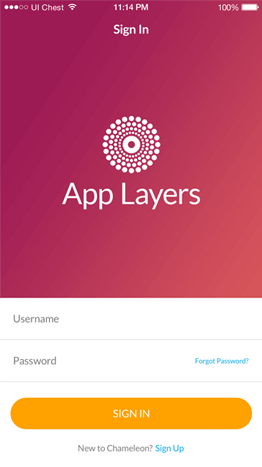
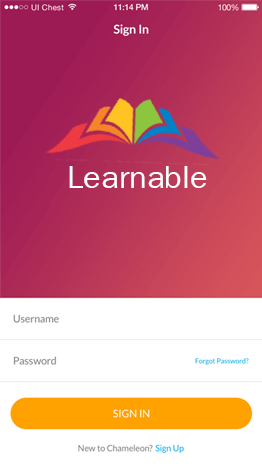
1
1

Changed region(s): [[0.1832, 0.2099, 0.8244, 0.4497]]

diff --git a/index.html b/index.html
@@ -6,7 +6,7 @@
     <meta name="viewport" content="width=device-width, initial-scale=1.0">
     <meta name="description" content="">
     <meta name="author" content="">
-    <title>App Layers</title>
+    <title>Learnable</title>
     
 	<!-- Bootstrap CSS -->
 	<link href="css/bootstrap.min.css" rel="stylesheet">
@@ -112,9 +112,9 @@
 			<div class="col-md-12">
 			
 			<div class="section_heading">
-				<h2> Welcome to App Layers </h2>
-				
-				<h4> Lorem Ipsum is simply dummy text of the printing and typesetting industry. Lorem Ipsum is simply dummy text  </h4>
+				<h2> Welcome to Learnable </h2>
+			
+				<h4> Connecting learners and teachers </h4>
 			</div>		
 				
 				<div class="col-md-4">
@@ -130,52 +130,52 @@
 						<li>
 								
 								<h6> <i class="fa fa-star-o" aria-hidden="true"></i> Easy to Use </h6>
-								It is a long established fact that a reader will be distracted by the readable content of a page when looking at its layout. The point of using
+								Designated for ease of use, both the Learnable App and Website is made simple and easy for you to navigate your preferred categories, whether learning or teaching.
 						</li>
 						
 						<li>
 								
-								<h6> <i class="fa fa-heart-o" aria-hidden="true"></i>  User Findley </h6>
-								It is a long established fact that a reader will be distracted by the readable content of a page when looking at its layout. The point of using
+								<h6> <i class="fa fa-heart-o" aria-hidden="true"></i>  Interactions beforehand </h6>
+								If you are still unsure, our messaging system connects you with the tutor to make sure everything will be hassle-free.
 						</li>
 						
 						<li>
 								
-								<h6> <i class="fa fa-laptop" aria-hidden="true"></i>  Slick Design </h6>
-								It is a long established fact that a reader will be distracted by the readable content of a page when looking at its layout. The point of using
+								<h6> <i class="fa fa-laptop" aria-hidden="true"></i>  Trust & Safety </h6>
+								We handle the money so you don't have to. Tutors and tutees are paid and pay through Learnable.
 						</li>
 						
 						<li>
 								
 								<h6> <i class="fa fa-thumbs-o-up" aria-hidden="true"></i>  Excellent Support  </h6>
-								It is a long established fact that a reader will be distracted by the readable content of a page when looking at its layout. The point of using
+								Questions? We have a community of tutors and tutees just for you, and if that's not enough, our Learnable support team will be here to answer it.
 						</li>
 						
 						<li>
 								
-								<h6> <i class="fa fa-lightbulb-o" aria-hidden="true"></i>  Pixel Perfect  </h6>
-								It is a long established fact that a reader will be distracted by the readable content of a page when looking at its layout. The point of using
+								<h6> <i class="fa fa-lightbulb-o" aria-hidden="true"></i>  Earn money as a Learnable tutor  </h6>
+								Expert in a module? Own a tuition centre? Through Learnable you have outreach of tutors who are willing to Learn!
 						</li>
 						
 						<li>
-								 
-								<h6> <i class="fa fa-cogs" aria-hidden="true"></i> Easy to Customize </h6>
-								It is a long established fact that a reader will be distracted by the readable content of a page when looking at its layout. The point of using
+
+								<h6> <i class="fa fa-heart-o" aria-hidden="true"></i> Secure places </h6>
+								By utilizing certified Learnable public places, you can learn with other people!
 						</li>
-						
+
 						<li>
-								
-								<h6> <i class="fa fa-lightbulb-o" aria-hidden="true"></i>  Pixel Perfect </h6>
-								It is a long established fact that a reader will be distracted by the readable content of a page when looking at its layout. The point of using
+
+								 <h6> <i class="fa fa-heart-o" aria-hidden="true"></i> Want to teach, but do not have the skills?</h6>
+								Join us for tutor seminars! Often free, we offer a wide range of lessons for tutors who wants to improve their tutoring skills!
 						</li>
-						
+
 						<li>
-								
-								<h6> <i class="fa fa-cogs" aria-hidden="true"></i>  Easy to Customize</h6>
-								It is a long established fact that a reader will be distracted by the readable content of a page when looking at its layout. The point of using
+
+								<h6> <i class="fa fa-heart-o" aria-hidden="true"></i> Connect with institutions</h6>
+								Through our partnership programmes, we offer a seamless transition from one level to another, picking you up that perfect qualiification you've always wanted!
 						</li>
 						
-						
+																	
 					</ul>
 				</div>
 			</div>
@@ -196,7 +196,7 @@
 				<div class="section_heading section_heading_2">
 					<h2> App Screenshot </h2>
 				
-					<h4>Lorem Ipsum is simply dummy text of the printing and typesetting industry. Lorem Ipsum is simply dummy text  </h4>
+					<h4>Learnable in images  </h4>
 				</div>
 				
 				<div class="screenshot_slider">
@@ -233,7 +233,7 @@
 			<div class="section_heading">
 				<h2>Frequently Asked Questions </h2>
 				
-				<h4>Lorem Ipsum is simply dummy text of the printing and typesetting industry. Lorem Ipsum is simply dummy text   </h4>
+				<h4>If you do not find your answers, feel free to contact my personal e-mail at delonl01@hotmail.com! </h4>
 			</div>		
 				
 				
@@ -247,14 +247,14 @@
                                         	<div class="font-icon-m">
 											<i class="fa fa-plus-circle"></i><i class="fa fa-minus-circle"></i>
                                             </div>
-											  Lorem Ipsum is simply dummy text ?  	 
+											  Is it free?	 
 										</a>
 									</h4>
 								</div>
 								<div role="tabpanel" class="panel-collapse collapse in" id="collapse1" aria-expanded="true" style="">
 									<div class="panel-body">
-										<p>Lorem Ipsum has been the industry's standard dummy text ever since the 1500s, when an unknown printer took a galley of type and scrambled it to make a type specimen book. It has survived not only five centuries, but also the leap into electronic typesetting, remaining.  </p>
-                                    <p>It was popularised in the 1960s with the release of Letraset sheets containing Lorem Ipsum passages, and more recently with desktop publishing software like Aldus PageMaker including versions of Lorem Ipsum. </p>
+										<p>We take a percentage sum off your total transaction. To learn more about our rates, feel free to bring me in to the competition and I will tell you more </p>
+                                    <p> - </p>
 									</div>
 								</div>
 							</div>
@@ -266,14 +266,14 @@
                                         	<div class="font-icon-m">
 											<i class="fa fa-plus-circle"></i><i class="fa fa-minus-circle"></i>
                                             </div>
-											  There are many variations of passages of Lorem Ipsum ?
+											  How are tutors rated?
 										</a>
 									</h4>
 								</div>
 								<div role="tabpanel" class="panel-collapse collapse" id="collapse2" aria-expanded="false" style="height: 0px;">
 									<div class="panel-body">
-										<p>Lorem Ipsum has been the industry's standard dummy text ever since the 1500s, when an unknown printer took a galley of type and scrambled it to make a type specimen book. It has survived not only five centuries, but also the leap into electronic typesetting, remaining.  </p>
-                                    <p>It was popularised in the 1960s with the release of Letraset sheets containing Lorem Ipsum passages, and more recently with desktop publishing software like Aldus PageMaker including versions of Lorem Ipsum. </p>
+										<p>For a full look of the rating system, please contact me at delonl01@hotmail.com  </p>
+                                    <p>-</p>
 									</div>
 								</div>
 							</div>
@@ -286,14 +286,13 @@
                                         	<div class="font-icon-m">
 											<i class="fa fa-plus-circle"></i><i class="fa fa-minus-circle"></i>
                                             </div>
-											  It is a long established fact that a reader ?	 
+											  What if I am a parent looking for a tutors? 
 										</a>
 									</h4>
 								</div>
 								<div role="tabpanel" class="panel-collapse collapse" id="collapse3" aria-expanded="false" style="height: 0px;">
 									<div class="panel-body">
-										<p>Lorem Ipsum has been the industry's standard dummy text ever since the 1500s, when an unknown printer took a galley of type and scrambled it to make a type specimen book. It has survived not only five centuries, but also the leap into electronic typesetting, remaining.  </p>
-                                    <p>It was popularised in the 1960s with the release of Letraset sheets containing Lorem Ipsum passages, and more recently with desktop publishing software like Aldus PageMaker including versions of Lorem Ipsum. </p>
+										<p>Of course! A parents can even install a credit card so you don't have to worry yourself over cash with your children. Feel free to sign up as a tutee and tick "parents" when booking a tutor! </p>
 									</div>
 								</div>
 							</div>
@@ -306,14 +305,13 @@
                                         	<div class="font-icon-m">
 											<i class="fa fa-plus-circle"></i><i class="fa fa-minus-circle"></i>
                                             </div>
-											Contrary to popular belief, Lorem Ipsum is not simply random ?
+											How do I register or download?
 										</a>
 									</h4>
 								</div>
 								<div role="tabpanel" class="panel-collapse collapse" id="collapse4" aria-expanded="false" style="height: 0px;">
 									<div class="panel-body">
-										<p>Lorem Ipsum has been the industry's standard dummy text ever since the 1500s, when an unknown printer took a galley of type and scrambled it to make a type specimen book. It has survived not only five centuries, but also the leap into electronic typesetting, remaining.  </p>
-                                    <p>It was popularised in the 1960s with the release of Letraset sheets containing Lorem Ipsum passages, and more recently with desktop publishing software like Aldus PageMaker including versions of Lorem Ipsum. </p>
+										<p> Sunway Start-It challenge, hit me up at delonl01@hotmail.com! </p>
 									</div>
 								</div>
 							</div>
@@ -326,14 +324,13 @@
                                         	<div class="font-icon-m">
 											<i class="fa fa-plus-circle"></i><i class="fa fa-minus-circle"></i>
                                             </div>
-											 There are many variations of passages of Lorem Ipsum ?
+											 I am interested in investing in this idea.
 										</a>
 									</h4>
 								</div>
 								<div role="tabpanel" class="panel-collapse collapse" id="collapse5" aria-expanded="false" style="height: 0px;">
 									<div class="panel-body">
-										<p>Lorem Ipsum has been the industry's standard dummy text ever since the 1500s, when an unknown printer took a galley of type and scrambled it to make a type specimen book. It has survived not only five centuries, but also the leap into electronic typesetting, remaining.  </p>
-                                    <p>It was popularised in the 1960s with the release of Letraset sheets containing Lorem Ipsum passages, and more recently with desktop publishing software like Aldus PageMaker including versions of Lorem Ipsum. </p>
+										<p>You know the drill, delonl01@hotmail.com</p>
 									</div>
 								</div>
 							</div>
@@ -353,10 +350,10 @@
 			<div class="col-md-12">
 				
 				<div class="footer_top">
-					<h4> Share Your Favorite Mobile Apps With Your Friends  </h4>
+					<h4> Share Learnable With Your Friends  </h4>
 					
 					<ul>
-						<li> <a href="http://facebook.com/"> <i class="fa fa-facebook" aria-hidden="true"></i> </a> </li>
+						<li> <a href="https://www.facebook.com/waiyip01/"> <i class="fa fa-facebook" aria-hidden="true"></i> </a> </li>
 						<li> <a href="http://twitter.com/"> <i class="fa fa-twitter" aria-hidden="true"></i> </a> </li>
 						<li> <a href="http://linkedin.com/"> <i class="fa fa-linkedin" aria-hidden="true"></i> </a> </li>
 						<li> <a href="http://google.com/"> <i class="fa fa-google-plus" aria-hidden="true"></i> </a> </li>
@@ -374,7 +371,7 @@
 	
 	<div class="footer_bottom fourth-bg">
 				    <!-- Keep Footer Credit Links Intact -->
-				    <p> 2016 &copy; Copyright Applayers. All rights Reserved. Powered By Free <a href="http://www.pfind.com/goodies/applayers/">AppLayers</a> Template from <a href="http://www.pfind.com/goodies/">pFind Goodies</a>. </p>
+				   
 				</div>
 				
 </footer>
